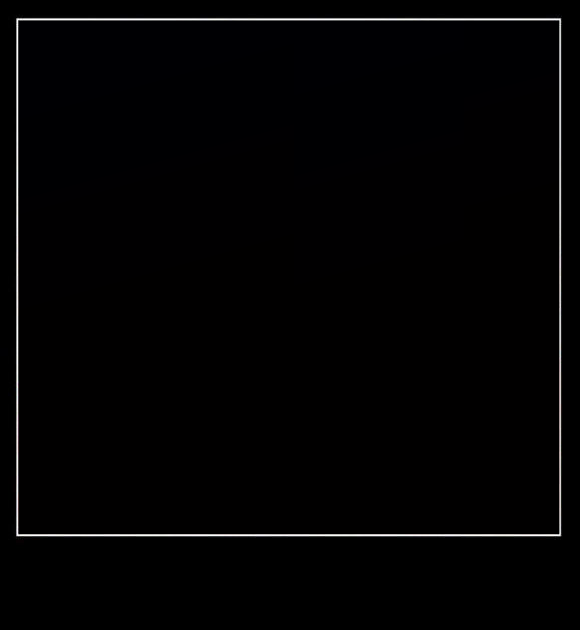
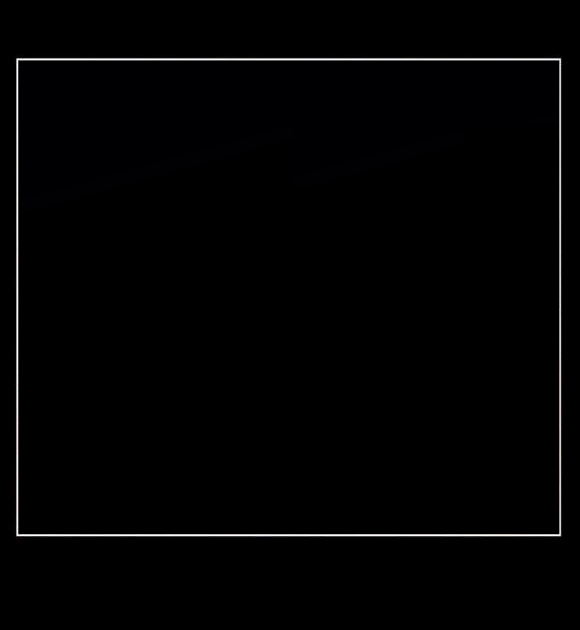
first kinda cool image shuffle release

Changed region(s): [[0.0, 0.0302, 0.9931, 0.0905], [0.031, 0.0905, 0.9621, 0.1206]]

diff --git a/Shared/GlueView.m b/Shared/GlueView.m
@@ -11,14 +11,20 @@
 @implementation GlueView
 
 static NSUInteger kLabelCount           =   3;
-static CGFloat    kLabelBorderTop       = 120.f;
+static CGFloat    kBorderViewBorderTop  =  40.f;
+static CGFloat    kBorderViewWidth      = 290.f;
+static CGFloat    kImageViewHeight      = 232.f;
+static CGFloat    kImageViewBorderTop   =  32.f;
+static CGFloat    kLabelBorderTop       =  39.f;
 static CGFloat    kLabelBorderSides     =  10.f;
-static CGFloat    kLabelContainerWidth  = 300.f;
-static CGFloat    kLabelContainerHeight =  81.f;
+static CGFloat    kLabelContainerWidth  = 280.f;
+// the 400 is quite random!
+static CGFloat    kLabelContainerHeight = 400.f;
 static CGFloat    kAnimationThreshold   = 350.f;
 static CGFloat    kAlphaZeroThreshold   = 560.f;
 static CGFloat    kContentOffsetY       =  -1.f;
 
+@synthesize borderImageView = _borderImageView;
 @synthesize imageView = _imageView;
 @synthesize labelView = _labelView;
 @synthesize labels = _labels;
@@ -26,16 +32,38 @@ static CGFloat    kContentOffsetY       =  -1.f;
 @synthesize index = _index;
 @synthesize glue = _glue;
 
+ALAssetsLibrary *_library = nil;
+BOOL _isGettingImage = NO;
 
 
+- (ALAssetsLibrary *)library {
+    if(!_library) {
+        _library = [[ALAssetsLibrary alloc] init];
+    }
+    return _library;
+}
 
-// TODO: refactor (move) this method to the GlueGenerator
-- (void)updateImage {
-    // TODO: don't alloc this each call!
-    ALAssetsLibrary *library = [[ALAssetsLibrary alloc] init];
+- (CGSize)getMinimalSizeForSize:(CGSize)size {
+    // TODO: make this maxWidth generic
+    //       also, (maybe) don't assume that width is always bigger than height
+    //       note: the *2 is for the Retina support
+    CGFloat maxWidth = (kLabelContainerWidth - 20) * 2;
+    CGFloat scale = maxWidth / size.width;
+    CGSize newSize = CGSizeMake(maxWidth,
+                                scale * size.height);
+    return newSize;
+}
+
+- (void)getImage {
+    // set up the thread's own NSAutoreleasePool here
+    NSAutoreleasePool *pool = [[NSAutoreleasePool alloc] init];
+    
+    @synchronized(self) {
+        _isGettingImage = YES;
+    }
     
     // Enumerate just the photos and videos group by using ALAssetsGroupSavedPhotos.
-    [library enumerateGroupsWithTypes:ALAssetsGroupSavedPhotos usingBlock:^(ALAssetsGroup *group, BOOL *stop) {
+    [[self library] enumerateGroupsWithTypes:ALAssetsGroupSavedPhotos usingBlock:^(ALAssetsGroup *group, BOOL *stop) {
         // Within the group enumeration block, filter to enumerate just videos.
         [group setAssetsFilter:[ALAssetsFilter allPhotos]];
         
@@ -47,65 +75,83 @@ static CGFloat    kContentOffsetY       =  -1.f;
                                     options:0
                                  usingBlock:^(ALAsset *alAsset, NSUInteger index, BOOL *innerStop) {
                                      
-                // The end of the enumeration is signaled by asset == nil.
-                if (alAsset) {
-                    ALAssetRepresentation *representation = [alAsset defaultRepresentation];
-                    // Do something interesting with the AV asset.
-                    self.imageView.image = [UIImage imageWithCGImage:
-                                            [representation fullResolutionImage]
-                                                               scale:1.0
-                                                         orientation:UIImageOrientationUp];
-                }
-            }];
+                                     // The end of the enumeration is signaled by asset == nil.
+                                     if (alAsset) {
+                                         ALAssetRepresentation *representation = [alAsset defaultRepresentation];
+                                         // Do something interesting with the AV asset.
+                                         UIImage *rawImage = [UIImage imageWithCGImage:[representation fullResolutionImage]
+                                                                                 scale:1.0
+                                                                           orientation:UIImageOrientationUp];
+                                         CGSize newSize = [self getMinimalSizeForSize:rawImage.size];
+                                         UIGraphicsBeginImageContext(newSize);
+                                         [rawImage drawInRect:CGRectMake(0,0,newSize.width,newSize.height)];
+                                         UIImage* newImage = UIGraphicsGetImageFromCurrentImageContext();
+                                         UIGraphicsEndImageContext();
+                                         self.imageView.image = newImage;
+                                     }
+                                 }];
         }
     }
-        failureBlock: ^(NSError *error) {
-            // Typically you should handle an error more gracefully than this.
-            NSLog(@"No groups");
-    }];
-    [library release];
+                                failureBlock: ^(NSError *error) {
+                                    // TODO: some clever error handling here
+                                    NSLog(@"No groups");
+                                }];
+    @synchronized(self) {
+        _isGettingImage = NO;
+    }
+    [pool release];
 }
 
-// TODO: can I actually get rid of kContentOffsetY now, since the vertical scrollbar
+// TODO: refactor (move) this method to the GlueGenerator
+- (void)updateImage {
+    @synchronized(self) {
+        if(!_isGettingImage) {
+            [NSThread detachNewThreadSelector:@selector(getImage) toTarget:self withObject:nil];
+        }
+    }
+}
+
 // will never differ in contentOffset anymore?
-- (void)initLabelsWithContentOffsetY:(CGFloat)contentOffsetY {
+- (void)initLabels {
     // first, init the label's parent container view
     self.labelView = [[UIView alloc] initWithFrame:CGRectMake(kLabelBorderSides,
-                                                              // TODO remove the hard-coded number here
-                                                              kLabelBorderTop + contentOffsetY + 200,
+                                                              kLabelBorderTop,
                                                               kLabelContainerWidth,
                                                               kLabelContainerHeight)];
     self.labelView.autoresizesSubviews = YES;
     // TODO: Make the imageView a sperate view, which will hold the black border.
     // TODO: Make the frame setting better. (not hardcoded)              // 313 = current size of black background image
-    CGRect frame = CGRectMake(15, 40, kLabelContainerWidth - 10, 313);
+    CGRect frame = CGRectMake(15, kBorderViewBorderTop, kBorderViewWidth, 313);
     UIImageView *borderView = [[UIImageView alloc] initWithFrame:frame];
     borderView.image = [UIImage imageNamed:@"black_border"];
     borderView.contentMode = UIViewContentModeScaleAspectFill;
     
-    frame = CGRectMake(12, 12, kLabelContainerWidth - 35, 251);
+    frame = CGRectMake(12, kImageViewBorderTop, kBorderViewWidth - 25, kImageViewHeight);
     self.imageView = [[UIImageView alloc] initWithFrame:frame];
     self.imageView.clipsToBounds = YES;
     self.imageView.contentMode = UIViewContentModeScaleAspectFill;
     
     NSMutableArray *labels = [[NSMutableArray alloc] initWithCapacity:kLabelCount];
     for(int labelIndex = 0; labelIndex < kLabelCount; labelIndex++) {
+        // TODO: make these calculations a bit more relative
+        CGFloat fontSize = (labelIndex == 0) ? 23.0 : 17.0;
+        CGFloat height = (labelIndex == 0) ? 28.0 : 25.f;
+        CGFloat offsetY = (labelIndex == 0) ? 0 : ((labelIndex == 1) ? 267 : 288);
+        
         UILabel *label = [[UILabel alloc] init];
         label.backgroundColor = [UIColor clearColor];
-        label.font = [UIFont fontWithName:@"AmericanTypewriter-Bold" size:12.0];
+        label.font = [UIFont fontWithName:@"AmericanTypewriter-Bold" size:fontSize];
         label.textAlignment = UITextAlignmentCenter;
         label.textColor = [UIColor lightTextColor];
         label.numberOfLines = 1;
+//        label.backgroundColor = [UIColor grayColor]; // positioning test
         label.shadowColor = [UIColor darkTextColor];
         label.shadowOffset = CGSizeMake(0, 1);
         label.adjustsFontSizeToFitWidth = YES;
         label.minimumFontSize = 3;
         label.lineBreakMode = UILineBreakModeTailTruncation;
         label.autoresizingMask = UIViewAutoresizingFlexibleWidth;
-        label.frame = CGRectMake(5,
-                                 (kLabelContainerHeight / kLabelCount) * labelIndex,
-                                 kLabelContainerWidth - 10,
-                                 (kLabelContainerHeight / kLabelCount));
+        label.frame = CGRectMake(15, offsetY, kLabelContainerWidth - 10, height);
         [self addSubview:borderView];
         [borderView addSubview:self.imageView];
         [self.imageView addSubview:self.labelView];
@@ -135,7 +181,7 @@ static CGFloat    kContentOffsetY       =  -1.f;
 - (id)init {
     if(self = [super init]) {
         // set up the labels
-        [self initLabelsWithContentOffsetY:kContentOffsetY];
+        [self initLabels];
         
         // set up the scrollView
         self.scrollView = [[UIScrollView alloc] init];
